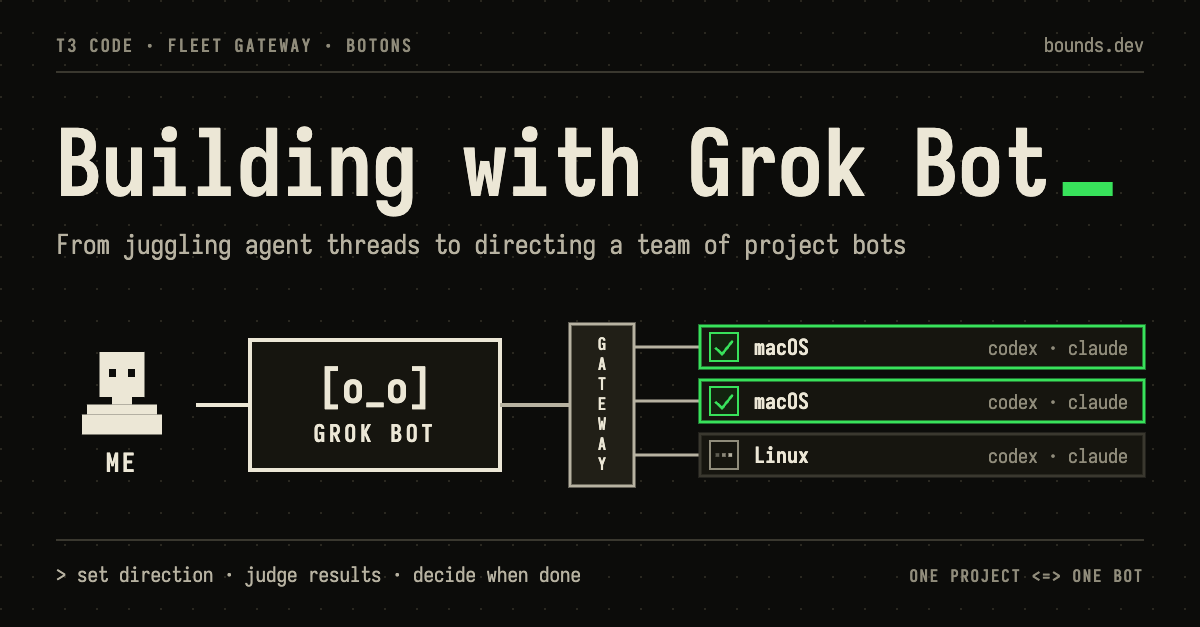
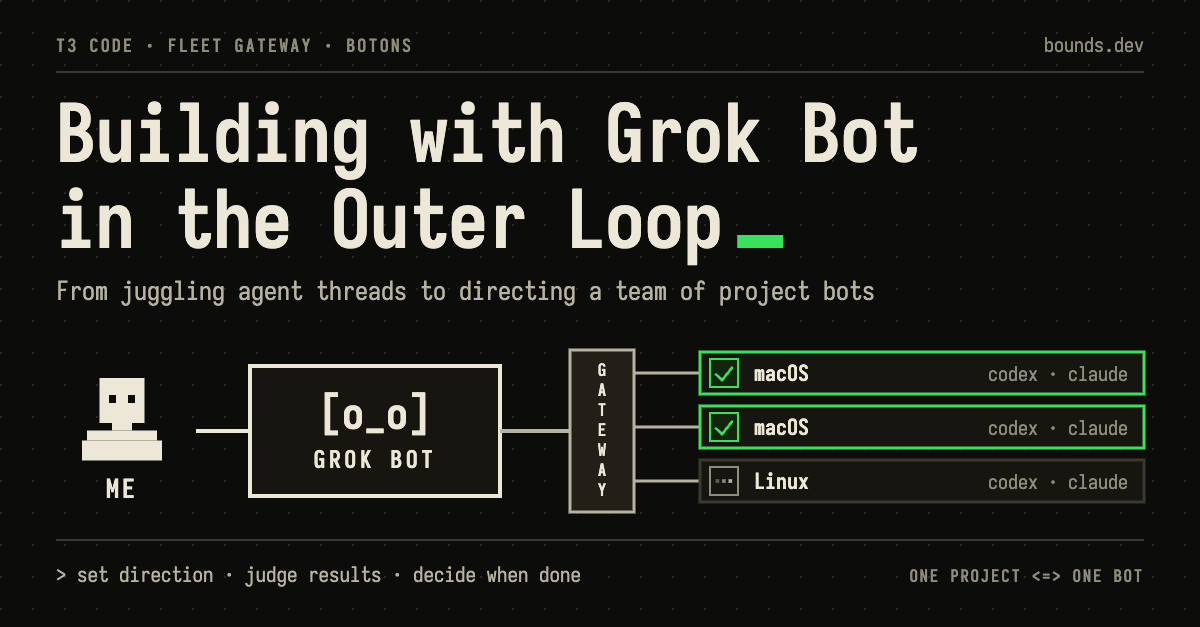
Retitle draft to Building with Grok Bot in the Outer Loop
Updates the front matter title, the social card (now a two-line title
broken at the phrase), the hero title labels on desktop and phone, and
the social image alt. The slug and preview path stay the same. The post
heading uses text-wrap: pretty so neither line ends on a lone word.

diff --git a/scripts/post-art/building-with-grok-bot/social.py b/scripts/post-art/building-with-grok-bot/social.py
@@ -13,14 +13,19 @@ s.text(m, 52, "T3 CODE · FLEET GATEWAY · BOTONS", size=18, weight=700, fill=FG
 s.text(W - m, 52, "bounds.dev", size=20, fill=FG3, anchor="end")
 s.line(m, 72, W - m, 72, stroke=DIM, sw=2)
 
-title = "Building with Grok Bot"
-s.text(m, 196, title, size=92, weight=700, fill=FG1, ls=-0.01)
-tw = measure(title, 92, 700, -0.01)
-s.rect(m + tw + 14, 196 - 14, 50, 14, fill=GREEN)
-s.text(m, 254, "From juggling agent threads to directing a team of project bots", size=27, fill=FG2)
+# The title, "Building with Grok Bot in the Outer Loop", on two lines broken at the phrase, so both
+# halves stay big at feed size; the terminal cursor ends the second line.
+TITLE = ("Building with Grok Bot", "in the Outer Loop")
+TS, LS = 80, -0.01
+assert max(measure(t, TS, 700, LS) for t in TITLE) < W - 2 * m - 70, "title would clip"
+s.text(m, 162, TITLE[0], size=TS, weight=700, fill=FG1, ls=LS)
+s.text(m, 248, TITLE[1], size=TS, weight=700, fill=FG1, ls=LS)
+tw = measure(TITLE[1], TS, 700, LS)
+s.rect(m + tw + 14, 248 - 13, 46, 13, fill=GREEN)
+s.text(m, 300, "From juggling agent threads to directing a team of project bots", size=26, fill=FG2)
 
 # chain: me -> grok bot -> gateway -> machines
-y0, h = 330, 150
+y0, h = 356, 150
 cy = y0 + h / 2
 human(s, m + 66, y0 + 22, scale=1.25)
 s.text(m + 66, y0 + 142, "ME", size=26, weight=700, fill=FG1, anchor="middle", ls=0.12)
@@ -50,6 +55,7 @@ s.text(W - m, 582, "ONE PROJECT <=> ONE BOT", size=17, weight=700, fill=FG3, anc
 
 out = Path(sys.argv[1])
 (out / "social-card.svg").write_text(s.to_string(
-    "Building with Grok Bot", "Social card: the title Building with Grok Bot over a chain from me to a Grok Bot, "
+    "Building with Grok Bot in the Outer Loop", "Social card: the title Building with Grok Bot in the Outer Loop "
+    "over a chain from me to a Grok Bot, "
     "through a gateway, to two macOS machines and a Linux machine running Codex and Claude."))
 print("ok")

diff --git a/scripts/post-art/building-with-grok-bot/hero.py b/scripts/post-art/building-with-grok-bot/hero.py
@@ -259,7 +259,7 @@ def draw(t, still=False):
     ceo = ramp(t, 4.9, 5.4) * (1 - ramp(t, 10.3, 10.6))
 
     # chrome
-    s.text(48, 46, "BUILDING WITH GROK BOT", size=17, weight=700, fill=FG3, ls=0.12)
+    s.text(48, 46, "BUILDING WITH GROK BOT IN THE OUTER LOOP", size=17, weight=700, fill=FG3, ls=0.12)
     if ceo > 0.5:
         s.text(W - 48, 46, "ME: THE CEO", size=17, weight=700, fill=GREEN, anchor="end", ls=0.12,
                opacity=clamp((ceo - 0.5) * 2))

diff --git a/scripts/post-art/building-with-grok-bot/hero_phone.py b/scripts/post-art/building-with-grok-bot/hero_phone.py
@@ -124,7 +124,7 @@ def draw(t, still=False):
         fan, power, neat, ceo = 0, 1, 1, 1
 
     # chrome + status banner (the main meaning, in big type)
-    s.text(M, 38, "BUILDING WITH GROK BOT", size=16, weight=700, fill=FG3, ls=0.12)
+    s.text(M, 38, "BUILDING WITH GROK BOT IN THE OUTER LOOP", size=16, weight=700, fill=FG3, ls=0.12)
     s.line(M, 54, W - M, 54, stroke=DIM, sw=2)
     if ceo > 0.5:
         o = clamp((ceo - 0.5) * 2)

diff --git a/scripts/post-art/building-with-grok-bot/lib.py b/scripts/post-art/building-with-grok-bot/lib.py
@@ -1,4 +1,4 @@
-"""Shared SVG primitives for the 'Building with Grok Bot' post art.
+"""Shared SVG primitives for the 'Building with Grok Bot in the Outer Loop' post art.
 
 Palette and type follow the bounds.dev CRT (dark) tokens and the t3-fleet-gateway hero:
 near-black screen, cream ink, square corners, dotted grid, one signal colour per meaning.

diff --git a/content/posts/building-with-grok-bot/index.md b/content/posts/building-with-grok-bot/index.md
@@ -1,11 +1,11 @@
 ---
-title: "Building with Grok Bot"
+title: "Building with Grok Bot in the Outer Loop"
 date: 2026-11-11T12:00:00-08:00
 draft: true
 description: "My limit was managing agent threads. Grok Bot let a bot per project run them while I act as CEO, and its usage spike pushed me to build Botons."
 summary: "I'm the bottleneck, so I gave every project its own bot. Then I built my own."
 images: ["social-card.png"]
-socialImageAlt: "Building with Grok Bot: a terminal-style card showing me connected to a Grok Bot, which routes work through a gateway to two macOS machines and a Linux machine running Codex and Claude."
+socialImageAlt: "Building with Grok Bot in the Outer Loop: a terminal-style card showing me connected to a Grok Bot, which routes work through a gateway to two macOS machines and a Linux machine running Codex and Claude."
 tags: ["ai", "tools", "automation", "t3-code", "grok", "mcp"]
 categories: ["dev"]
 resources:
@@ -19,6 +19,7 @@ featuredImageCaption: "On loop: me routing every thread myself, then a Grok Bot 
 ---
 
 <style>
+  .kc-post__title { text-wrap: pretty; }
   .bgb-fig { margin: 2rem auto; }
   .bgb-fig img { display: block; width: 100%; height: auto; border: var(--bw-line, 2px) solid var(--border); }
   .bgb-fig figcaption { max-width: 640px; margin: 0.6rem auto 0; color: var(--fg-2); }

diff --git a/scripts/post-art/building-with-grok-bot/README.md b/scripts/post-art/building-with-grok-bot/README.md
@@ -1,4 +1,4 @@
-# Art for "Building with Grok Bot"
+# Art for "Building with Grok Bot in the Outer Loop"
 
 Sources for every image in `content/posts/building-with-grok-bot/`. Edit a script, run `./build.sh`, then
 review on `make preview` (or any draft-enabled `hugo server`).
